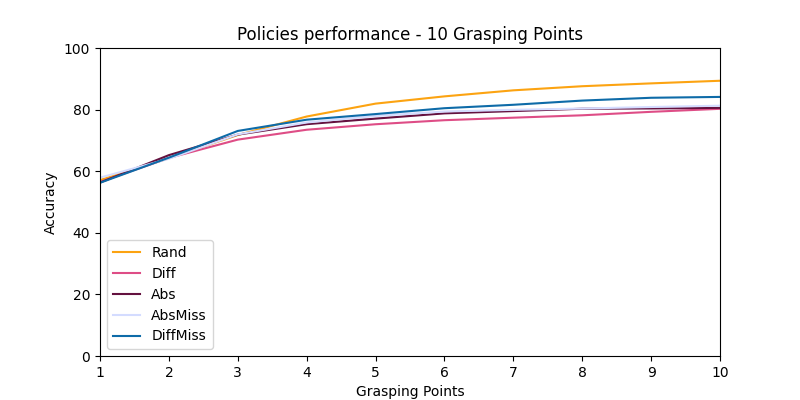
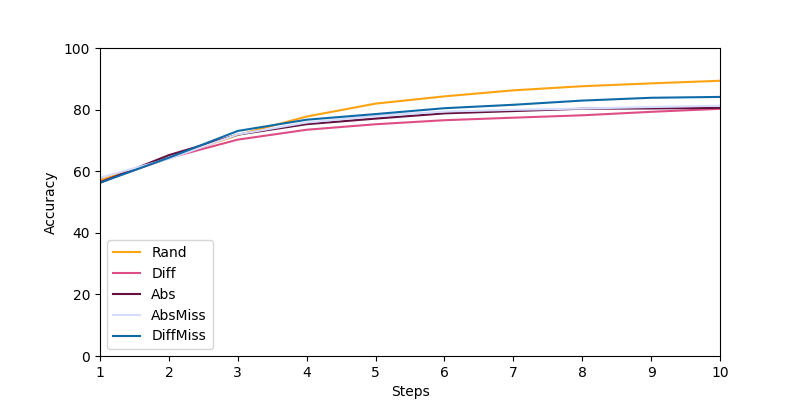
plots

Changed region(s): [[0.2812, 0.06, 0.7188, 0.12], [0.4375, 0.96, 0.5938, 1.0]]

diff --git a/plots_plakat/rl_functions_performance_plot.py b/plots_plakat/rl_functions_performance_plot.py
@@ -5,7 +5,7 @@ import time
 
 from color_shemes import main_colorscheme
 
-data_path = 'plots_plakat/plot_data/rl_policies_statistics.pkl'
+data_path = 'plots_plakat/plot_data/rl_policies_statistics_gp.pkl'
 
 name_mask = {
     'rl_models/rew500k9': 'Diff',
@@ -25,20 +25,7 @@ x = range(1, 11)
 plt.figure(figsize=(8, 4))
 
 for i, [key, value] in enumerate(data.items()):
-    '''
-    if not key.endswith('metric'):
-        print(f'{key}: {value[-1,0]}')
-        mean = value[:,0]
-        std = value[:,1]
-
-        upper = mean + std
-        lower = mean - std
-        c = main_colorscheme[i]
-        p = plt.plot(x, mean, label=key, color=c)
-        #plt.fill_between(x, upper, lower, color=c, alpha=0.3)
-    '''
-
-    print(f'{key}: {value[-2,0]}')
+    print(f'{key}: {value[-1,0]}')
     mean = value[:,0]
     std = value[:,1]
 
@@ -50,11 +37,10 @@ for i, [key, value] in enumerate(data.items()):
 
 plt.ylim((0, 100))
 plt.xlim((1, 10))
-plt.title('Policies performance - 10 ray casts')
 plt.xlabel('Steps')
 plt.ylabel('Accuracy')
 
 plt.legend()
 
-plt.savefig('plots_plakat/temp/performance_plot.png', dpi=300)
+plt.savefig('plots_plakat/temp/performance_plot_gp.png')
 plt.show()
